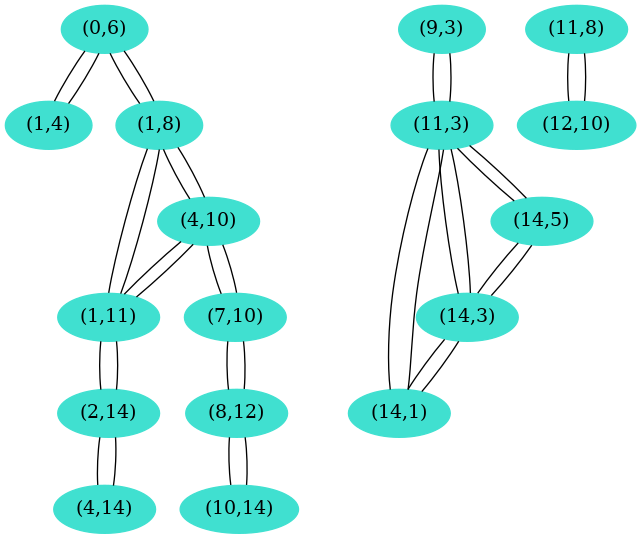
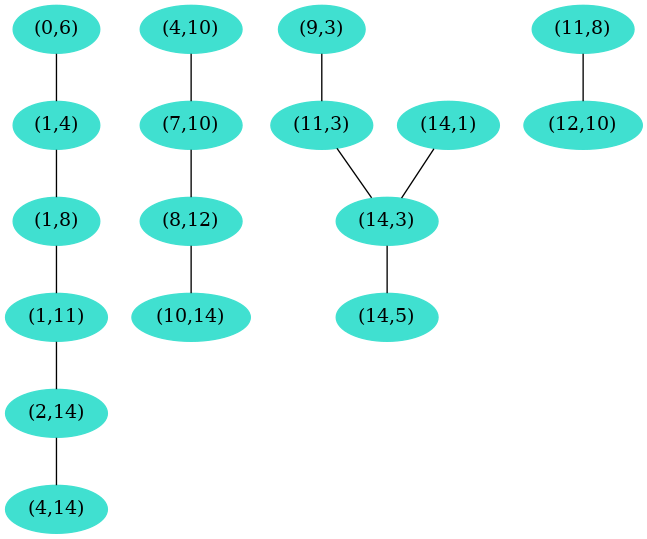
fix : metro v5

diff --git a/metro/network.c b/metro/network.c
@@ -2,6 +2,7 @@
 #include <err.h>
 #include <stdlib.h>
 #include <math.h>
+#include <float.h>
 #include "graph.h"
 
 struct Metro
@@ -12,31 +13,49 @@ struct Metro
     //unsigned int *adjlists;
 };
 
+
 void buildAdjlists(struct Metro *STATIONS, unsigned int nb_stat,
 			    double max, Graph g)
 {
-    for(unsigned int i = 0; i < nb_stat; i++)
+  unsigned int * rencontre = (unsigned int *) calloc( nb_stat, sizeof(unsigned int) );
+  //unsigned int nbmax = 5;
+  unsigned int proche;
+  double min = DBL_MAX;
+
+  for(unsigned int i = 0; i < nb_stat; i++)     //Appelle toute les stations
     {
-        unsigned int x1 = STATIONS[i].x;
-        unsigned int y1 = STATIONS[i].y;
-        
-        for(unsigned int j = 0; j < nb_stat; j++)
-        {
-            if(i != j)
-            {
-                unsigned int x2 = STATIONS[j].x;
-                unsigned int y2 = STATIONS[j].y;
+      unsigned int x1 = STATIONS[i].x;
+      unsigned int y1 = STATIONS[i].y;
+
+      min = DBL_MAX;
+      
+      if(rencontre[i] == 0)                     // Si pas deja relié
+	{
+	  rencontre[i] = 1;
+	      
+	  for(unsigned int j = 0; j < nb_stat; j++)
+	    {
+	      if(i != j)
+		{
+		  unsigned int x2 = STATIONS[j].x;
+		  unsigned int y2 = STATIONS[j].y;
                 
-                double a = (double)((x1 - x2) * (x1 - x2));
-                double b = (double)((y1 - y2) * (y1 - y2));
-                double dist = sqrt(a + b);
-                
-                if(dist <= max)
-                    add_edge(g, i+1, j+1);
+		  double a = (double)((x1 - x2) * (x1 - x2));
+		  double b = (double)((y1 - y2) * (y1 - y2));
+		  double dist = sqrt(a + b);
+
+		  if(dist < min && rencontre[j] == 0){
+		    min = dist;
+		    proche = j;
+		  }
                     
+		}
 	    }
-	}
+	  if(min <= max)
+	    add_edge(g, i+1, proche+1);
+	}	
     }
+    free(rencontre);
 }
 
 int nb_stations(char **matrice, int DIM)
@@ -89,7 +108,7 @@ struct Metro *BuildStations(char **matrice, int DIM, Graph g1)
 void MakeMetro(char **matrice)
 {
   int NUMBER_STATIONS; 
-  double MAX = 3.8;
+  double MAX = 4.2;
   int DIM = 15;
 
   NUMBER_STATIONS = nb_stations(matrice, DIM);
